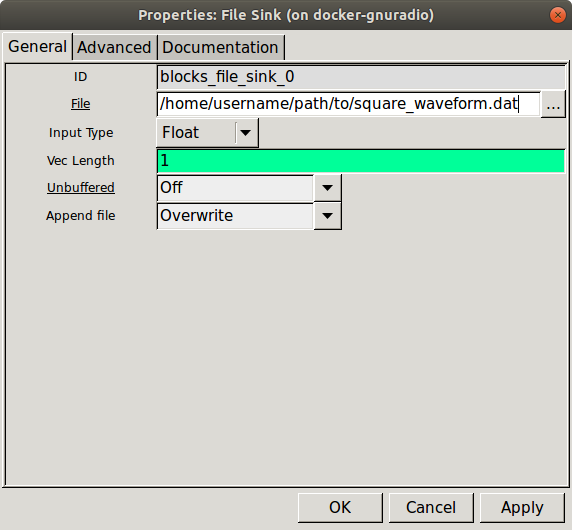
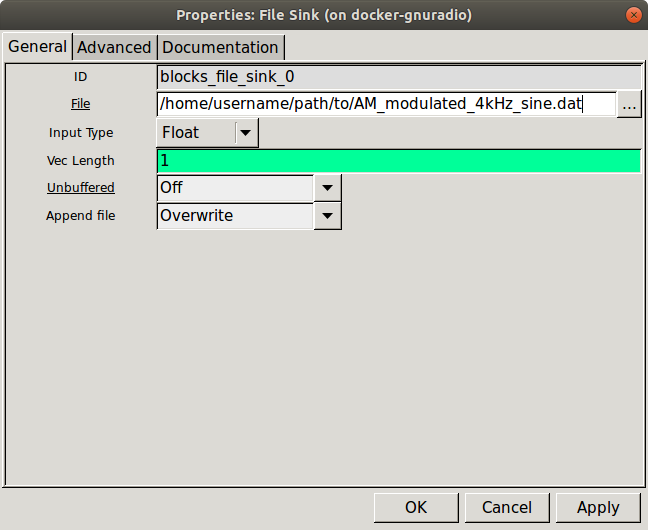
Finished tutorial3/4

diff --git a/_lab1/tutorial4.md b/_lab1/tutorial4.md
@@ -27,7 +27,7 @@ The second part addresses demodulating a provided data file which contains sever
 
 ---
 
-## Buliding an AM receiver
+## Building an AM receiver
 
 - Review the [theory of AM receivers using real signals](../_docs/pdriessen_textbook.pdf) (section 3.1).
 
@@ -39,7 +39,7 @@ The second part addresses demodulating a provided data file which contains sever
 - To recover the message from an AM modulated signal, we must first eliminate the effect of the carrier frequency by multiplying the received signal with the carrier waveform and low pass filtering it. This provides the baseband signal **1 + k_a * m(t)**. A DC blocker is then used to obtain **k_a * m(t)**.
 
 - Build the following flowgraph in your `AM_demodulator.grc` file.
-  <!-- #TODO fix for 4k -->
+
     ![tutorial4_AM_demod_flowgraph.png](./figures/tutorial4_AM_demod_flowgraph.png)<br>
     __*AM Demodulation flowgraph*__
 
@@ -60,12 +60,15 @@ The second part addresses demodulating a provided data file which contains sever
     __*Rational resampler parameters*__
 
 - Run the flowgraph and analyze the output. Is it what you expected? You can also look at the other `.dat` files of modulated signals to demodulate them. Just remember to adjust the low pass filter parameters based on the modulated signal properties.
-    <!-- #TODO change both of these -->
+
     ![tutorial4_demodulated_scope.png](./figures/tutorial4_demodulated_scope.png)<br>
     __*Demodulated 4 kHz sine message*__
 
     ![tutorial4_demodulated_spectrum.png](./figures/tutorial4_demodulated_spectrum.png)<br>
     __*Demodulated 4 kHz sine message in the frequency domain*__
+
+    ![tutorial4_demodulated_spectrum_zoomed.png](./figures/tutorial4_demodulated_spectrum_zoomed.png)<br>
+    __*Demodulated 4 kHz sine message in the positive frequency domain*__
 
 ## Building a Complex signal receiver with channel selection (tuning)
 
@@ -80,15 +83,14 @@ The second part addresses demodulating a provided data file which contains sever
   - **Author:** V00xxxxxx, V00yyyyyy (where all of your student numbers are included)
 
 - Construct the flow graph shown below. Set the sample rate in the variable block to 256000. This is the rate at which the saved data was sampled.
-    <!-- #TODO rebuild -->
+
     ![tutorial4_am_data_file.png](./figures/tutorial4_am_data_file.png)<br>
     __*Flow graph to play a file to an FFT sink.*__
 
   - Double-click on the *File Source* block. Click on the ellipsis (...) next to the *File* entry box. Locate the `am_usrp710.dat` file that you saved in the previous step. The path to your file will appear in the block properties. Set the *Output Type* to *Complex*. The use of complex data to describe and process waveforms in SDR will be discussed in the next lab. Set *Repeat* to *Yes*. This will cause the data to repeat so that you have a continuously playing signal.
 
-- Save and execute the flow graph. You should observe an FFT display similar to the one shown below. You may need to click on *Y Range* and *Ref Level* buttons to scale the output.
+- Save and execute the flow graph. You should observe an FFT display similar to the one shown below. You may need to click on *Y Range* and *Ref Level* buttons to scale the output. The *Autoscale* button automates this somewhat.
   
-    <!-- #TODO rebuild -->
     ![tutorial4_am_fft.png](./figures/tutorial4_am_fft.png)<br>
     __*GUI chooser properties dialog.*__
 
@@ -97,6 +99,8 @@ The second part addresses demodulating a provided data file which contains sever
     - This data was recorded with a USRP set to 710 kHz. Thus, the signal you see at the center (indicated as 0 kHz) is actually at 710 kHz. Similarly, the signal at 80 kHz is actually at 710 kHz + 80 kHz = 790 kHz.
     - The display spans a frequency range from just below -120 kHz to just above 120 kHz. This exact span is 256 kHz, which corresponds to the sample rate that the data was recorded at.
     - The peaks that you observe on this display correspond to the carriers for AM broadcast signals. You should also be able to observe the sidebands for the stronger waveforms.
+  
+  > To change the center frequency of the FFT, you can change the "Center Frequency" parameter in the *QT GUI Frequency Sink*.
 
 ### Frequency display resolution
 
@@ -109,7 +113,7 @@ In this step we will expand the frequency scale on the FFT display so that you c
 - Note that the *Throttle* and *QT GUI Frequency Sink* now need their sample rates changed to correspond to this new rate. Change the sample rate in both of these blocks to `samp_rate/resamp_factor`. Now we can change the decimation factor in the *Variable* block and it will be reflected in each of the other blocks automatically.
 
 - Your flow graph should now appear as shown below.
-    <!-- #TODO redo -->
+
     ![tutorial4_fft_decim_graph.png](./figures/tutorial4_fft_decim_graph.png)<br>
     __*Flow graph with file input and decimated FFT sink output.*__
 
@@ -125,12 +129,14 @@ What actual frequency range does this correspond to?
 
 ### Selecting one channel by filtering
 <!-- #TODO can you stop in QT? -->
-The bandwidth of an AM broadcast signal is 10 kHz (+/- 5 kHz from the carrier frequency). You may find it useful to click the *Stop* button on the FFT plot to see this more clearly. Also, note that many stations also include additional information outside of the 10 kHz bandwidth.
+The bandwidth of an AM broadcast signal is 10 kHz (+/- 5 kHz from the carrier frequency). You may find it useful to click the *Stop* button on the FFT plot to see this more clearly.
+
+>Note: many stations also include additional information outside of the 10 kHz bandwidth.
 
 In order to select the station at 710 kHz (0 kHz on the FFT display) we need to insert a filter to eliminate all but the one station that we want to receive. This is often referred to as a channel filter. Since the station at 710 kHz has been moved to 0 kHz (in the USRP) we will use a low pass filter. The station bandwidth is 10 kHz, so we will use a low pass filter that cuts off at 5 kHz.
 
 - Insert a *Low Pass Filter* block between the *Rational Resampler* and the *Throttle*. Set the parameters as shown. Note that the "FIR Type" is now "Complex->Complex".
-    <!-- #TODO redo -->
+
     ![tutorial4_low_pass_dialog.png](./figures/tutorial4_low_pass_dialog.png)<br>
     __*Low pass filter properties dialog.*__
 
@@ -161,7 +167,7 @@ The next step is to listen to this demodulated waveform to confirm that it is in
 - Since the output of the *Complex to Mag* is always positive, there will be a DC offset on the audio signal. The signal going to the audio hardware should not have any DC offset. Place a *DC Blocker* block between the *Complex to Mag* block and the *Rational Resampler* added in the previous step.
 
 - Place a *QT GUI Time Sink* at the output of the *Rational Resampler* (in addition to the *Audio Sink*). Change its "Type" to "Float" and set its "Sample Rate" to 48000. The flow graph should be similar to the one shown below.
-    <!-- #TODO build -->
+
     ![tutorial4_am_receiver_no_tuning_no_volume.png](./figures/tutorial4_am_receiver_no_tuning_no_volume.png)<br>
     __*Flow graph with file source with a "cleaner" audio output.*__
 
@@ -172,12 +178,12 @@ The next step is to listen to this demodulated waveform to confirm that it is in
 - Insert a *Multiply Const* block between the *DC Blocker* and the *Rational Resampler*. Set the "IO Type" of the block to "Float".
 
 - Add a *QT GUI Range* block. Set the parameters as shown.
-    <!-- #TODO redo -->
+
     ![tutorial4_am_volume.png](./figures/tutorial4_am_volume.png)<br>
     __*GUI slider properties dialog.*__
 
 - Set the constant in the *Multiply Const* block to "volume" so that the slider controls it. The final flow graph is shown.
-    <!-- #TODO redo -->
+
     ![tutorial4_am_receiver_no_tuning.png](./figures/tutorial4_am_receiver_no_tuning.png)<br>
     __*Flow graph with a GUI volume control to resample and play audio.*__
 
@@ -189,12 +195,12 @@ The next step is to listen to this demodulated waveform to confirm that it is in
 
 - Review the [theory of tuning to a radio station](../_docs/pdriessen_textbook.pdf) (section 3.2.2).
 
-- Place an *FFT Sink* at the output of the *File Source*, leaving the rest of the flow graph unchanged.
+- Place an *QT GUI Frequency Sink* at the output of the *File Source*, leaving the rest of the flow graph unchanged.
 
 - Execute the flow graph and observe the location of the other stations in the spectrum. Note that there is a fairly strong signal at 80 kHz (what is really 710 + 80 = 790 kHz).
 
 - In order to receive this signal we need to shift it down to zero frequency so that it will pass through the low pass filter. One way to accomplish this is to multiply it by a sinusoid. Modify the flow graph as shown below. Add a *Signal Source* block and set its parameters to output a cosine at a frequency of -80000. This negative frequency will shift the entire spectrum to the left by 80 kHz. Use a *Multiply* block and move the *QT GUI Frequency Sink* to observe its output. Test this receiver.
-    <!-- #TODO redo -->
+
     ![tutorial4_am_receiver_fixed_tuning.png](./figures/tutorial4_am_receiver_fixed_tuning.png)<br>
     __*Flow graph to play audio and with an FFT sink on the input.*__
 

diff --git a/_lab1/tutorial3.md b/_lab1/tutorial3.md
@@ -96,11 +96,13 @@ Why is the spectrum symmetrical about 0 Hz?
     __*Modulated carrier spectrum*__
 
 - Enable the *File Sink*, select a save destination and name the output file `AM_modulated_4kHz_sine.dat`.
-  <!-- #TODO fix -->
+
     ![tutorial3_file_sink.png](./figures/tutorial3_file_sink.png)<br>
     __*File Sink properties*__
 
 - Execute the flowgraph and after a few seconds kill it. Check that the `.dat` file now exists. You can now disable the *File Sink* block again.
+
+  >Note: if you execute the flowgraph while the *File Sink* block is enabled, and spend time analyzing the scope and frequency plots, it will be writing to file the entire time. Generally if you want to look at the plots for any duration, you should disable the *File Sink* block.
 
   >A way to regulate the duration a flowgraph runs for is to use the [*Head* block](https://wiki.gnuradio.org/index.php/Head) to limit the number of samples that flow either from the input or into the *File Sink*.  
 
